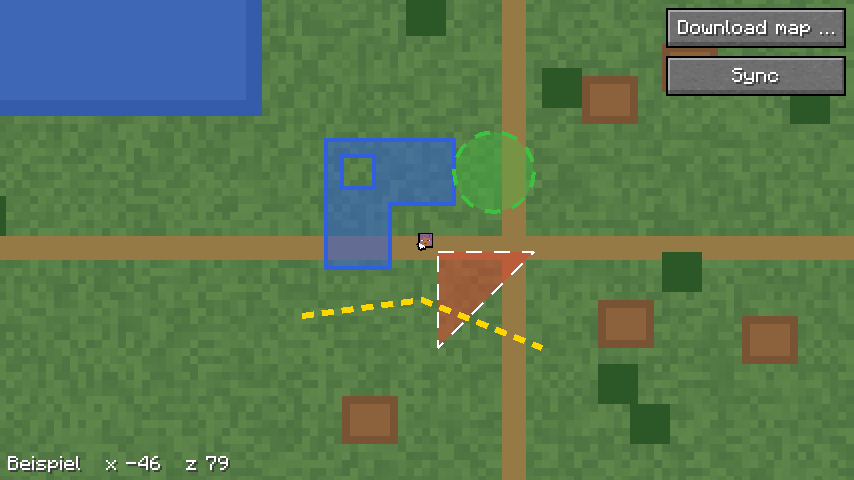
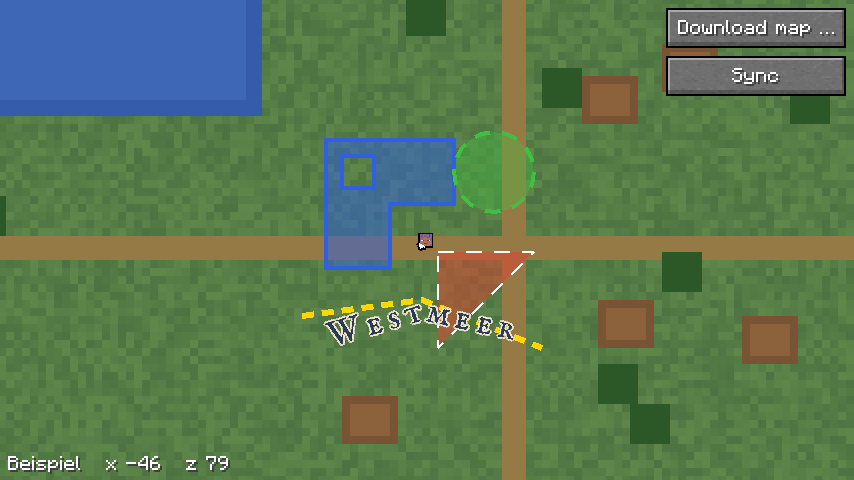
Doku: Bilder der Szene formen mit Kartenschrift

Changed region(s): [[0.3653, 0.625, 0.6089, 0.7188]]

diff --git a/docs/ebenen.md b/docs/ebenen.md
@@ -151,7 +151,7 @@ die Kameras von oben sagt: Seine Karten sind von oben gesehen, ein Kreis
 bleibt rund. Was er zeichnet, kommt aus `Ebenen.formen`, gelesen auf dem
 Thread des Netzes wie die Nadeln.
 
-![Fläche mit Loch, Kreis, Dreieck und Linie einer Ebene auf der Minimap, genordet und gedreht mit dem Rahmen „uhr“; Szene `formen` des Gametests](bilder/formen.png)
+![Fläche mit Loch, Kreis, Dreieck, Linie und Kartenschrift einer Ebene auf der Minimap, genordet und gedreht mit dem Rahmen „uhr“; Szene `formen` des Gametests](bilder/formen.png)
 
 ![Dieselben Formen auf der Vollbildkarte](bilder/formen-karte.png)
 
